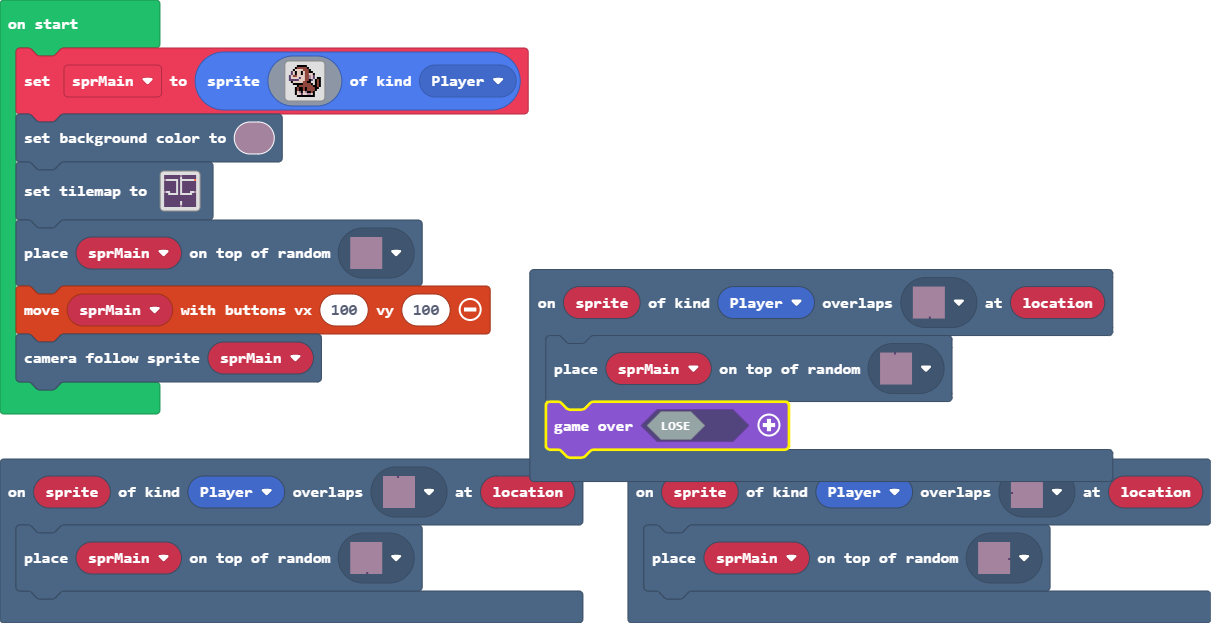
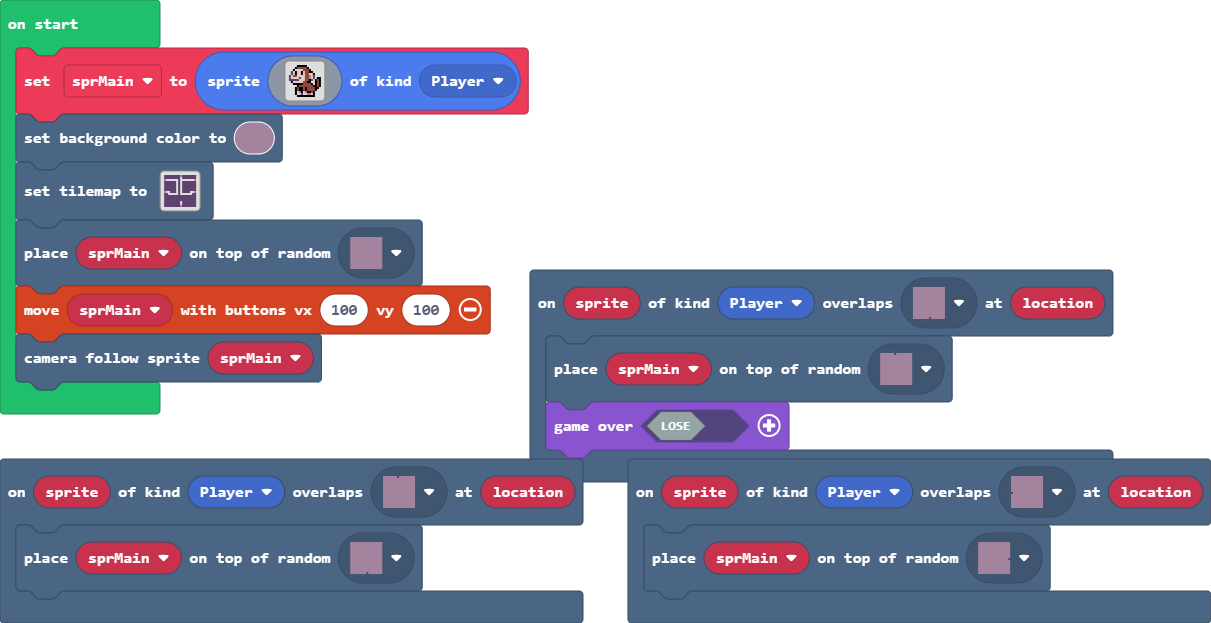
Update main.blocks, main.ts

diff --git a/main.ts b/main.ts
@@ -1,5 +1,5 @@
 scene.onOverlapTile(SpriteKind.Player, myTiles.tile8, function (sprite, location) {
-    tiles.placeOnRandomTile(sprMain, sprites.dungeon.hazardLava0)
+    tiles.placeOnRandomTile(sprMain, myTiles.tile7)
     game.over(false)
 })
 scene.onOverlapTile(SpriteKind.Player, myTiles.tile7, function (sprite, location) {
@@ -7,9 +7,6 @@ scene.onOverlapTile(SpriteKind.Player, myTiles.tile7, function (sprite, location
 })
 scene.onOverlapTile(SpriteKind.Player, myTiles.tile6, function (sprite, location) {
     tiles.placeOnRandomTile(sprMain, myTiles.tile5)
-})
-scene.onOverlapTile(SpriteKind.Player, sprites.dungeon.collectibleRedCrystal, function (sprite, location) {
-    game.over(true)
 })
 let sprMain: Sprite = null
 sprMain = sprites.create(img`
@@ -31,7 +28,7 @@ sprMain = sprites.create(img`
     . . . . f f f f f f f f f . . . 
     `, SpriteKind.Player)
 scene.setBackgroundColor(11)
-tiles.setTilemap(tiles.createTilemap(hex`1000100007070707070707070507070707070707070707070707070700070707070707070100000000000007000000000000000807070707070700070007070707070707070707070707000700070707070707070707070707070007000707070707070707070707070700070007070707070707070707070707000700070707070707070400000707070007000707070700000307070000000000070000000000000707070707070707070707070707070707070707070707070707070707070707070707070707070707070707070707070707070707070707070700070707070707070707070707070707090707070707070707070707070707070607070707070707`, img`
+tiles.setTilemap(tiles.createTilemap(hex`1000100007070707070707070507070707070707070707070707070700070707070707070100000000000007000000000000000807070707070700070007070707070707070707070707000700070707070707070707070707070007000707070707070707070707070700070007070707070707070707070707000700070707070707070400000707070007000707070700000307070000000000070000000000000707070707070707070707070707070707070707070707070707070707070707070707070707070707070707070707070707070707070707070700070707070707070707070707070707000707070707070707070707070707070607070707070707`, img`
     . . . . . . . 2 . 2 2 . . . . . 
     2 2 2 2 2 2 2 2 . 2 2 2 2 2 2 2 
     . . . . . . . 2 . . . . . . . . 
@@ -48,7 +45,7 @@ tiles.setTilemap(tiles.createTilemap(hex`100010000707070707070707050707070707070
     . . . . . . . 2 . 2 . . . . . . 
     . . . . . . . 2 . 2 . . . . . . 
     . . . . . . . 2 . 2 . . . . . . 
-    `, [myTiles.transparency16,myTiles.tile2,myTiles.tile2,myTiles.tile5,myTiles.tile6,myTiles.tile7,myTiles.tile8,sprites.dungeon.darkGroundCenter,sprites.dungeon.collectibleRedCrystal,sprites.dungeon.hazardLava0], TileScale.Sixteen))
+    `, [myTiles.transparency16,myTiles.tile2,myTiles.tile2,myTiles.tile5,myTiles.tile6,myTiles.tile7,myTiles.tile8,sprites.dungeon.darkGroundCenter,sprites.dungeon.collectibleRedCrystal], TileScale.Sixteen))
 tiles.placeOnRandomTile(sprMain, myTiles.tile2)
 controller.moveSprite(sprMain, 100, 100)
 scene.cameraFollowSprite(sprMain)
